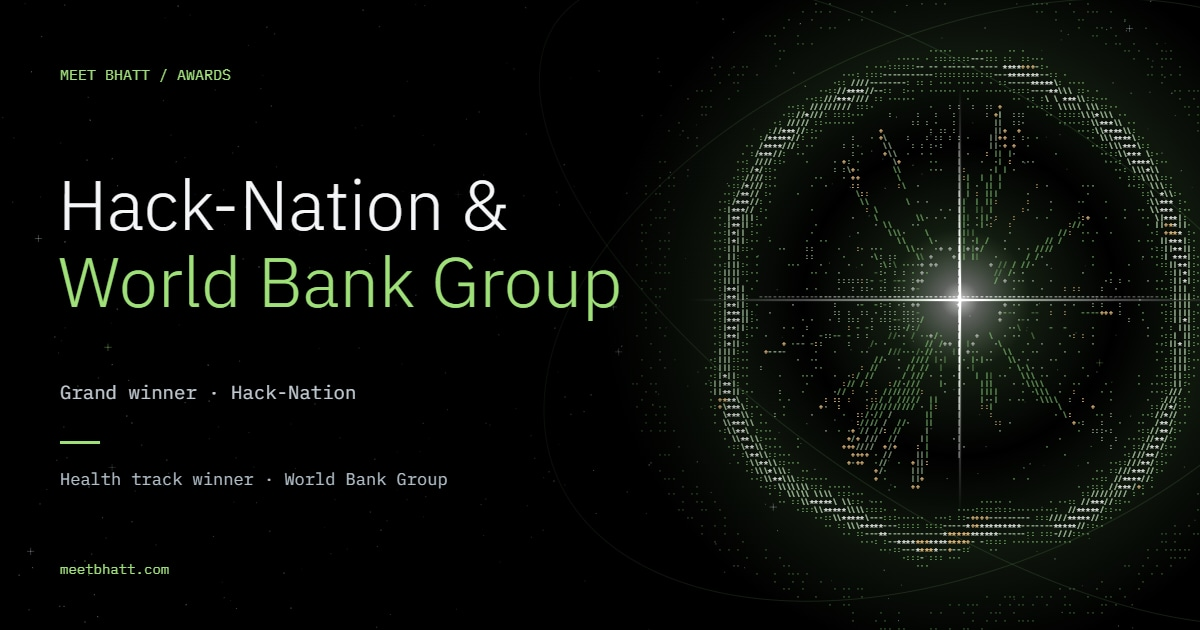
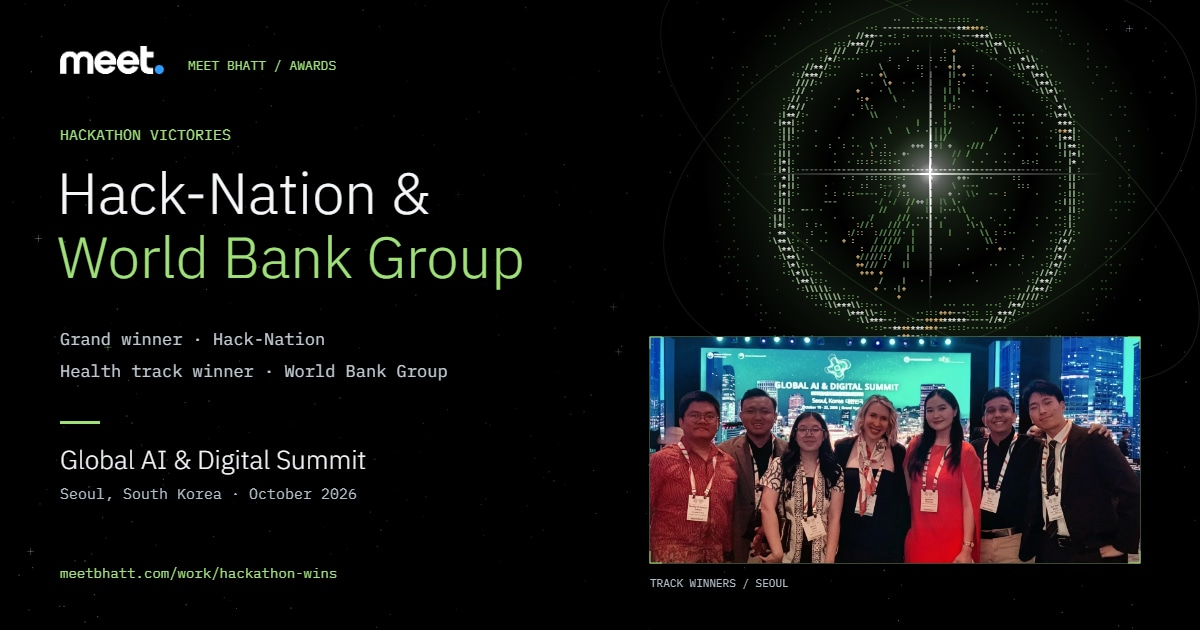
Refresh hackathon victory Open Graph card with Seoul photo

diff --git a/src/app/work/[slug]/page.tsx b/src/app/work/[slug]/page.tsx
@@ -46,7 +46,10 @@ export async function generateMetadata({
     width: 1200,
     height: 630,
     type: "image/jpeg",
-    alt: `${u.name} — Meet Bhatt. ${u.line}`,
+    alt:
+      u.id === "hackathon-wins"
+        ? "Hackathon victories: Grand winner at Hack-Nation and Health track winner at the World Bank Group. Global AI & Digital Summit, Seoul, October 2026. Track winners with Hayley Pottle, beside Meet Bhatt's supernova and logo."
+        : `${u.name} — Meet Bhatt. ${u.line}`,
   };
   return {
     ...metadata,
